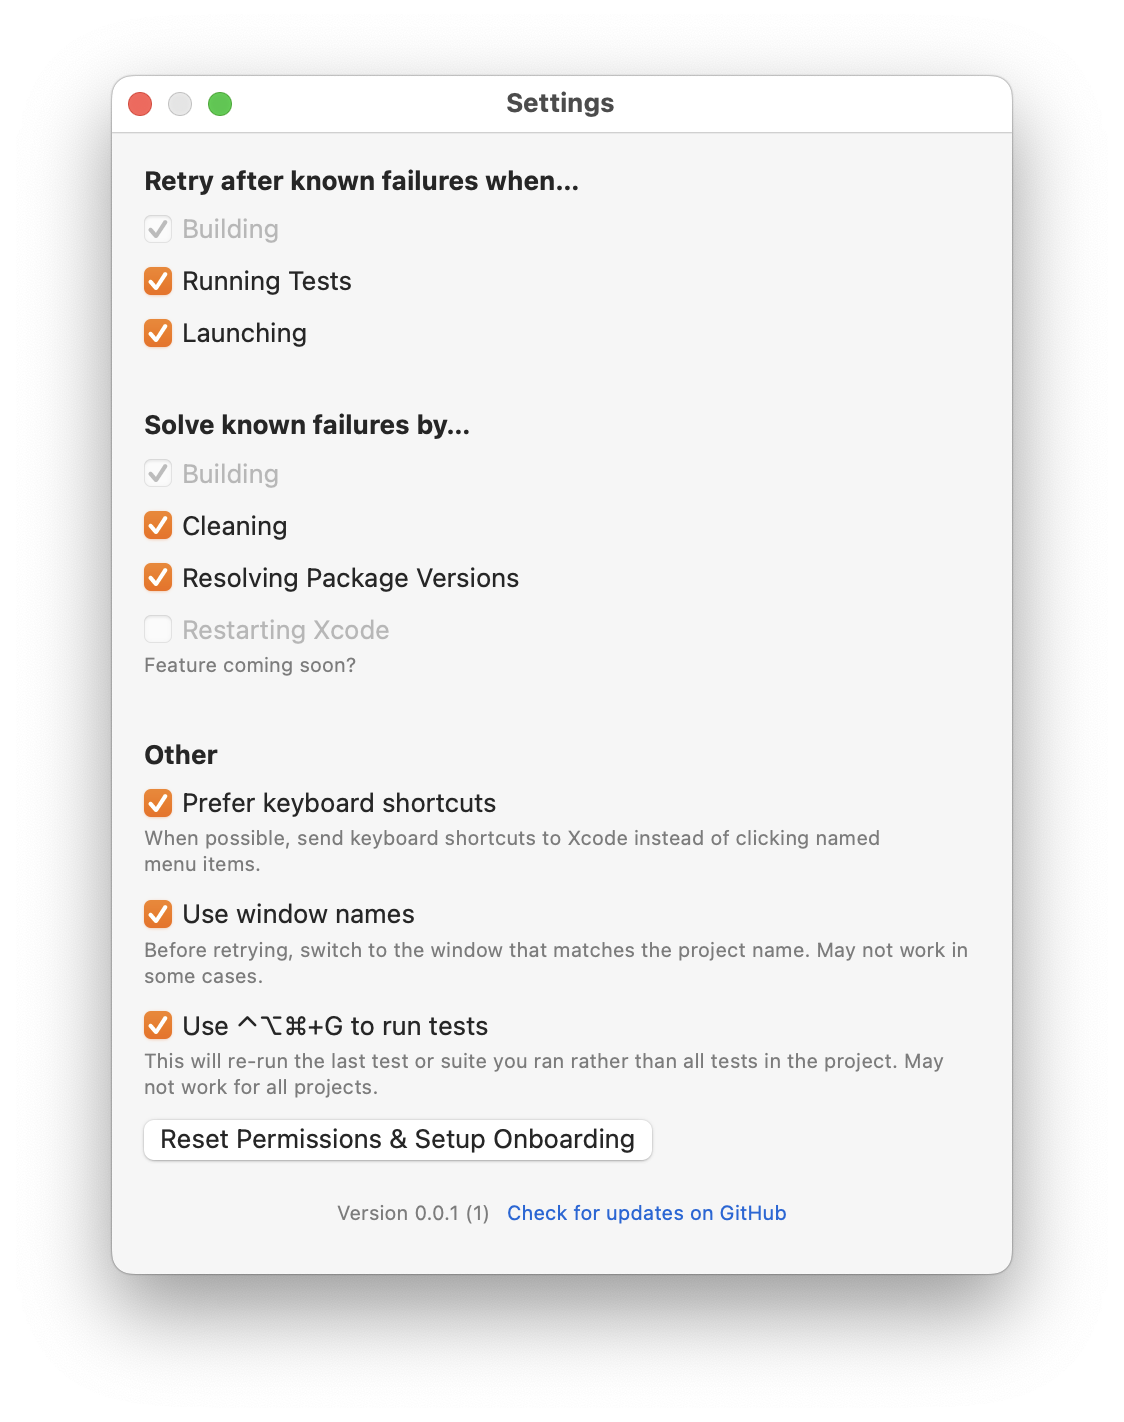
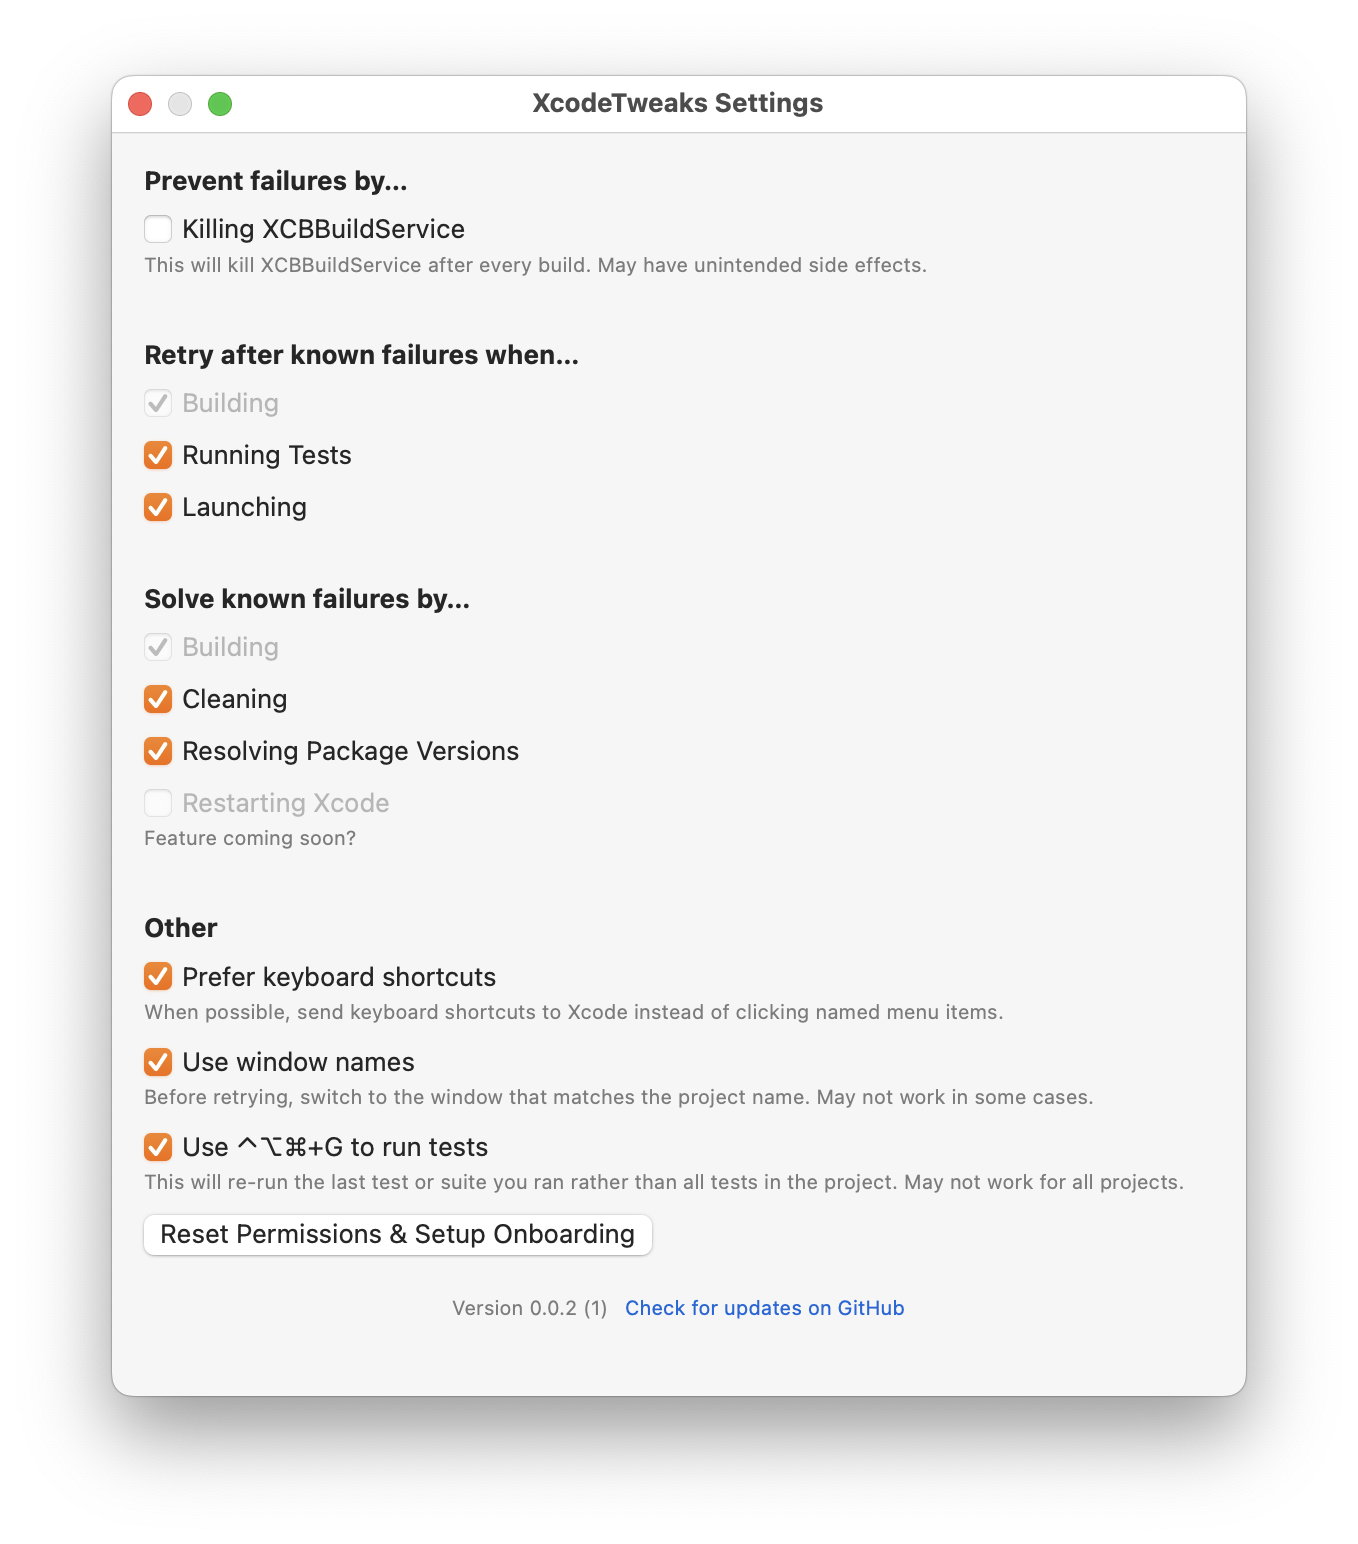
Support killing XCBBuildService after every build (off by default)

diff --git a/XcodeTweaks/App/Windows/Main/MainWindowViewModel.swift b/XcodeTweaks/App/Windows/Main/MainWindowViewModel.swift
@@ -17,6 +17,7 @@ extension MainWindowView {
 
         @Published var consoleLines: [ConsoleLine] = []
         @Published var automaticallyResolvedFailures: Int = 0
+        @Published var automaticallyKilledXCBBuildServices: Int = 0
 
         private var cancellables: Set<AnyCancellable> = []
         private var projects: [XcodeProjectState.Location: XcodeProjectState] = [:]
@@ -55,6 +56,17 @@ private extension MainWindowView.ViewModel {
             .assign(to: \.automaticallyResolvedFailures, on: self)
             .store(in: &cancellables)
 
+        PersistedValues.shared.$automaticallyKilledXCBBuildServices
+            .assign(to: \.automaticallyKilledXCBBuildServices, on: self)
+            .store(in: &cancellables)
+
+        PersistedValues.shared.$killXCBBuildService
+            .sink { [weak self] _ in
+                // Affects stats label
+                self?.objectWillChange.send()
+            }
+            .store(in: &cancellables)
+
         appendConsole("XcodeTweaks \(updateChecker.currentVersion) is listening for notifications", .dim)
         // loadConsoleForMarketingScreenshots()
 
@@ -75,18 +87,29 @@ private extension MainWindowView.ViewModel {
             case .buildSucceeded:
                 appendConsole(environment,"Build succeeded", .dim)
                 getProject(for: environment).numberOfRetriesRemaining = XcodeProjectState.maxRetries
+                try await handleXcodeProcessCompleted(environment: notification.environment)
             case .buildFailed:
                 appendConsole(environment,"Build failed", .dim)
                 try await handleFailure(environment: notification.environment)
+                try await handleXcodeProcessCompleted(environment: notification.environment)
             case .testStarted:
                 appendConsole(environment,"Test started", .dim)
             case .testSucceeded:
                 appendConsole(environment,"Test succeeded", .dim)
+                try await handleXcodeProcessCompleted(environment: notification.environment)
             case .testFailed:
                 appendConsole(environment, "Test failed", .dim)
+                try await handleXcodeProcessCompleted(environment: notification.environment)
             }
         } catch {
             appendConsole(environment, "Error: \(error)", .error)
+        }
+    }
+
+    func handleXcodeProcessCompleted(environment: XcodeTweaksNotification.Environment) async throws {
+        if PersistedValues.shared.killXCBBuildService {
+            try perform(.killXCBBuildService(), for: environment)
+            incrementXCBBuildServiceKilledCounter()
         }
     }
 
@@ -164,6 +187,14 @@ private extension MainWindowView.ViewModel {
         }
     }
 
+    func perform(_ script: ShellScript, for environment: XcodeTweaksNotification.Environment) throws {
+        appendConsole(environment, "Running \"\(script.name)\"", .normal)
+        let error = script.execute()
+        if let error {
+            throw error
+        }
+    }
+
     func appendConsole(_ environment: XcodeTweaksNotification.Environment, _ message: String, _ style: ConsoleLine.Style) {
         appendConsole("\(environment.projectName ?? "Unknown project") - \(message)", style)
     }
@@ -217,6 +248,10 @@ private extension MainWindowView.ViewModel {
 
     func incrementResolutionCounter() {
         PersistedValues.shared.automaticallyResolvedFailures += 1
+    }
+
+    func incrementXCBBuildServiceKilledCounter() {
+        PersistedValues.shared.automaticallyKilledXCBBuildServices += 1
     }
 
     func checkForUpdates() async {

diff --git a/XcodeTweaks/App/Infra/ShellScript.swift b/XcodeTweaks/App/Infra/ShellScript.swift
@@ -1,0 +1,50 @@
+//
+//  ShellScript.swift
+//  XcodeTweaks
+//
+//  Created by Max Chuquimia on 4/4/2025.
+//
+
+import Foundation
+import Cockle
+
+final class ShellScript {
+
+    private var shell: Shell?
+    let name: String
+    let executable: (Shell) throws -> Void
+
+    init(name: String, executable: @escaping (Shell) throws -> Void) {
+        self.name = name
+        self.executable = executable
+    }
+
+    @discardableResult
+    func execute() -> String? {
+        do {
+            if shell == nil {
+                shell = try Shell(configuration: ShellConfiguration())
+            }
+            guard let shell else { return nil }
+            try executable(shell)
+            return nil
+        } catch {
+            print(error)
+            return String(describing: error)
+        }
+    }
+
+}
+
+extension ShellScript {
+
+    static func killXCBBuildService() -> ShellScript {
+        ShellScript(
+            name: "kill XCBBuildService",
+            executable: { shell in
+                try shell.killall(_v: (), _c: "XCBBuildService")
+            }
+        )
+    }
+
+}

diff --git a/XcodeTweaks/App/Windows/Main/MainWindowView.swift b/XcodeTweaks/App/Windows/Main/MainWindowView.swift
@@ -17,6 +17,10 @@ struct MainWindowView: View {
         viewModel.automaticallyResolvedFailures
     }
 
+    var xcbBuildServiceCount: Int {
+        viewModel.automaticallyKilledXCBBuildServices
+    }
+
     var body: some View {
         VStack {
             if !systemViewModel.isComplete {
@@ -35,7 +39,11 @@ struct MainWindowView: View {
     var mainContent: some View {
         VStack {
             HStack {
-                Text("XcodeTweaks has responded to **\(failureCount)** failure\(failureCount == 1 ? "" : "s") for you \(failureCount > 0 ? "🎉" : "")")
+                if PersistedValues.shared.killXCBBuildService {
+                    Text("XcodeTweaks has killed XCBBuildService **\(xcbBuildServiceCount)** time\(xcbBuildServiceCount == 1 ? "" : "s") for you \(xcbBuildServiceCount > 0 ? "🎉" : "")")
+                } else {
+                    Text("XcodeTweaks has responded to **\(failureCount)** failure\(failureCount == 1 ? "" : "s") for you \(failureCount > 0 ? "🎉" : "")")
+                }
                 Spacer()
 
                 Button("Settings") {

diff --git a/XcodeTweaks/App/Windows/Settings/SettingsWindowViewModel.swift b/XcodeTweaks/App/Windows/Settings/SettingsWindowViewModel.swift
@@ -13,6 +13,7 @@ extension SettingsWindowView {
     
     final class ViewModel: ObservableObject {
 
+        @Published var killXCBBuildService: Bool = false
         @Published var fixWhenRunningTests: Bool = true
         @Published var fixWhenLaunching: Bool = true
         @Published var allowRerunningIndividualTests: Bool = true
@@ -45,6 +46,7 @@ extension SettingsWindowView.ViewModel {
 private extension SettingsWindowView.ViewModel {
 
     func setup() {
+        store($killXCBBuildService, \.killXCBBuildService, as: \.killXCBBuildService)
         store($fixWhenRunningTests, \.fixWhenRunningTests, as: \.fixWhenRunningTests)
         store($fixWhenLaunching, \.fixWhenLaunching, as: \.fixWhenLaunching)
         store($allowRerunningIndividualTests, \.allowRerunningIndividualTests, as: \.allowRerunningIndividualTests)

diff --git a/XcodeTweaks/App/Windows/Settings/SettingsWindowView.swift b/XcodeTweaks/App/Windows/Settings/SettingsWindowView.swift
@@ -17,6 +17,13 @@ struct SettingsWindowView: View {
             VStack  {
                 VStack(alignment: .leading, spacing: 28) {
                     VStack(alignment: .leading) {
+                        Text("Prevent failures by…")
+                            .font(.headline)
+                        StandardToggle(isOn: $viewModel.killXCBBuildService, label: "Killing XCBBuildService", help: "This will kill XCBBuildService after every build. May have unintended side effects.")
+                    }
+                    .frame(maxWidth: .infinity, alignment: .leading)
+
+                    VStack(alignment: .leading) {
                         Text("Retry after known failures when…")
                             .font(.headline)
                         StandardToggle(isOn: .constant(true), label: "Building")

diff --git a/XcodeTweaks/App/Infra/PersistedValues.swift b/XcodeTweaks/App/Infra/PersistedValues.swift
@@ -12,6 +12,9 @@ final class PersistedValues {
 
     static let shared = PersistedValues()
 
+    @SingletonUserDefault("killXCBBuildService", defaultValue: true)
+    var killXCBBuildService: Bool
+
     @SingletonUserDefault("fixWhenRunningTests", defaultValue: true)
     var fixWhenRunningTests: Bool
 
@@ -44,6 +47,9 @@ final class PersistedValues {
 
     @SingletonUserDefault("automaticallyResolvedFailures", defaultValue: 0)
     var automaticallyResolvedFailures: Int
+
+    @SingletonUserDefault("automaticallyKilledXCBBuildServices", defaultValue: 0)
+    var automaticallyKilledXCBBuildServices: Int
 
     private init() { }
 

diff --git a/ReadMe.md b/ReadMe.md
@@ -20,6 +20,8 @@ XcodeTweaks aims to perform automatic resolutions as per [this resolution reckon
 
 <img src="https://raw.githubusercontent.com/maxchuquimia/XcodeTweaks/master/Marketing/screenshot2.png" height="400" />
 
+⭐ **NEW!** XcodeTweaks can kill `XCBBuildService` after every build to _preemptively_ avoid the above failiures. Disabled by default, enable it in Settings.
+
 ## Installation
 
 This uses AppleScript to run commands in Xcode and therefore requires Accessibility and Automation permissions. XcodeTweaks is not sandboxed.
@@ -43,3 +45,6 @@ Also, Xcode 15.3 started appending some errors with "Build again to continue". R
 - Searching for colors in an xcasset catalogue by hex value, like [colorset](https://github.com/maxchuquimia/homebrew-scripts?tab=readme-ov-file#colorset) can.
 - Make it a menu bar app
 - Add a pause button
+- Automatic old DerivedData cleanup
+- Android Studio-esque triple shift
+- Hotwiring version numbers in plist for running older Xcodes on newer macOS versions
